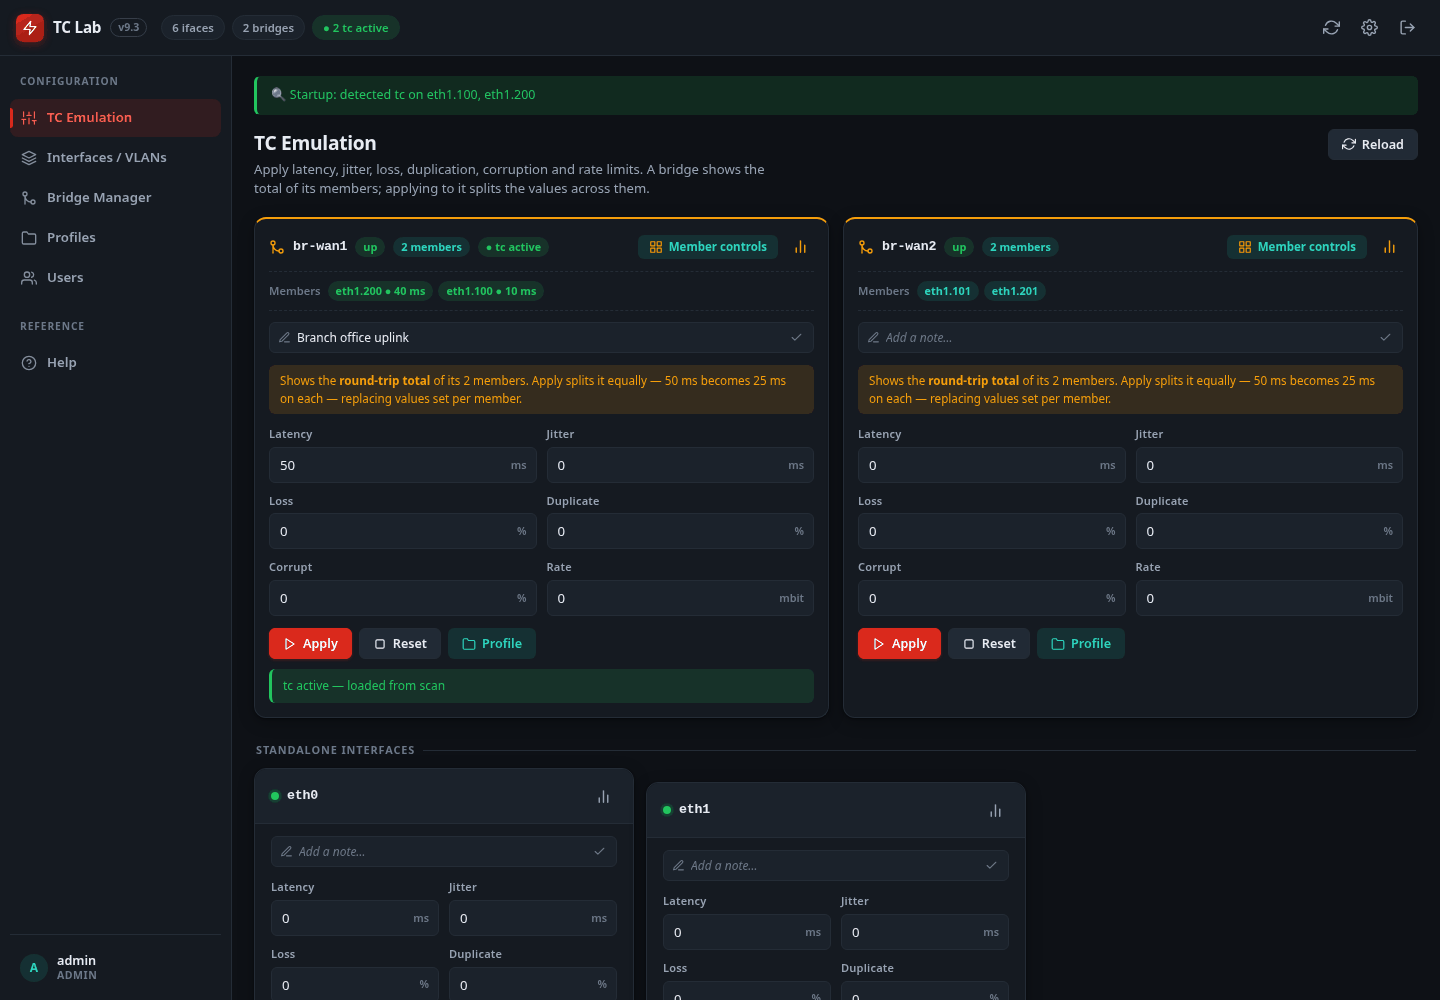
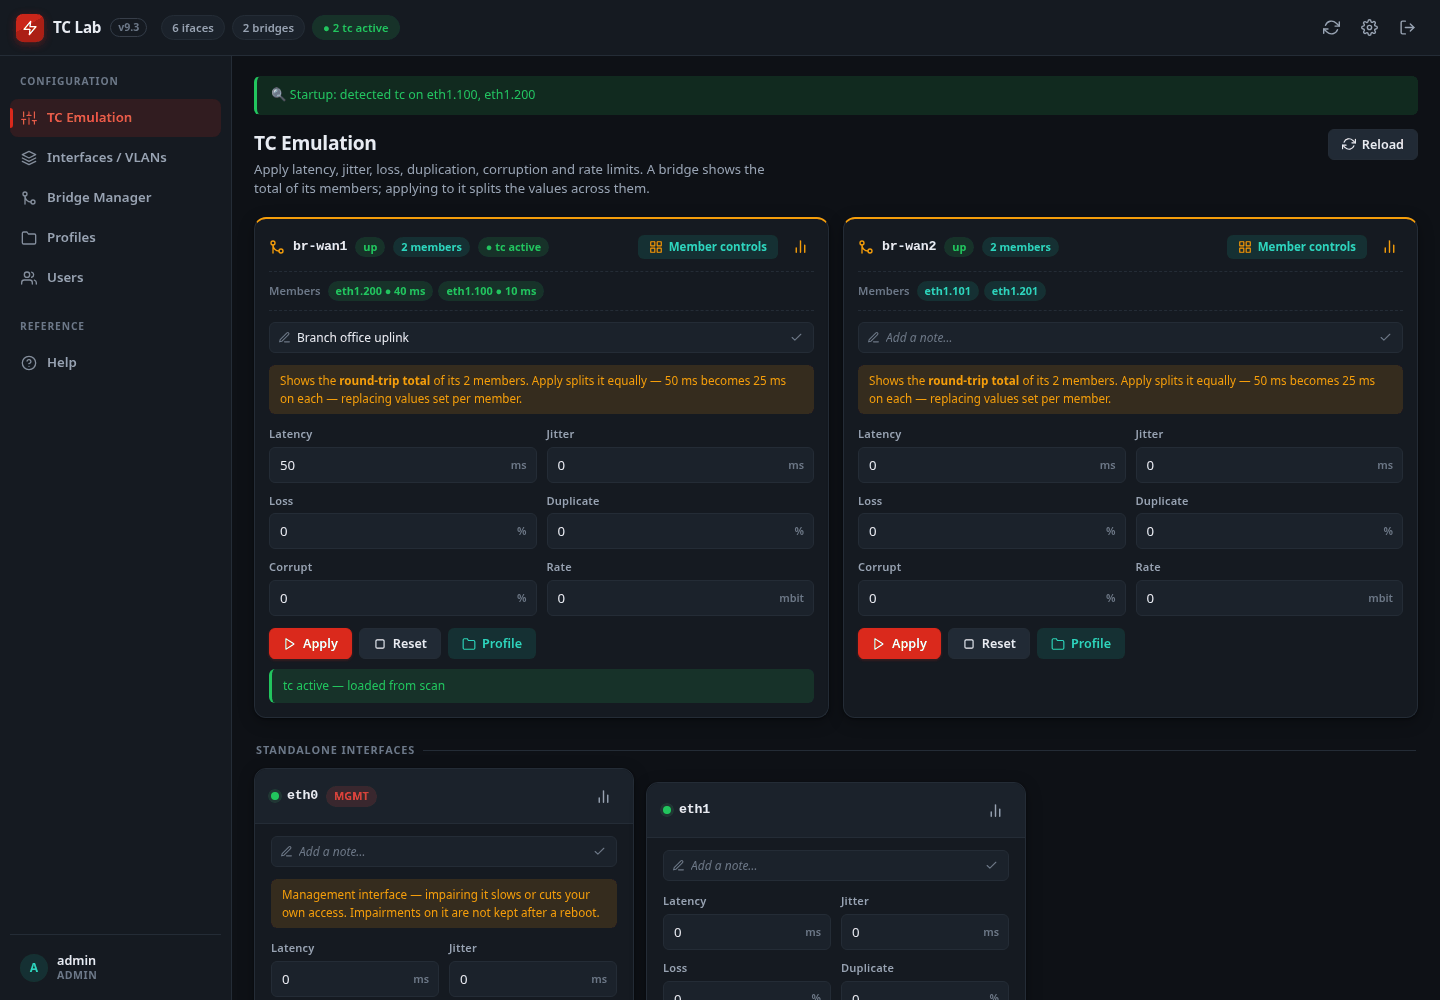
v9.3: document the management-interface protection
User guide (Settings → Management Interface, MGMT tag and warnings on the
Interfaces/VLANs and Bridge Manager pages, roles table), deployment (the
installer step, config keys, a "management interface" section, installer
flags), SECURITY.md, upgrading ("Coming from v9.2": the installer asks),
release notes, changelog, README. Screenshots re-taken (Settings,
Interfaces/VLANs, Bridge Manager and TC cards show it). No PNG metadata.

Changed region(s): [[0.1875, 0.868, 0.4375, 0.961], [0.2188, 0.775, 0.2812, 0.806]]

diff --git a/tools/capture-screenshots.py b/tools/capture-screenshots.py
@@ -34,7 +34,7 @@ SHOTS = [
     ("users",    "05-user-management.png", (1440, 820), "dark",  None),
     ("tc",       "06-light-theme.png", (1440, 1000), "light", None),
     ("profiles", "07-profiles.png",   (1440, 760), "dark",  None),
-    ("tc",       "08-settings.png",   (1440, 1240), "dark", "openSettings()"),
+    ("tc",       "08-settings.png",   (1440, 1480), "dark", "openSettings()"),
     ("tc",       "09-member-controls.png", (1440, 900), "dark", "openBrDrawer('br-wan1')"),
     ("tc",       "10-interface-stats.png", (1440, 900), "dark", "showStats('eth0')"),
     ("bridges",  "11-user-role.png",  (1440, 760), "dark",  None, "user"),

diff --git a/docs/user-guide.md b/docs/user-guide.md
@@ -174,6 +174,10 @@ example `eth1.100`.
 You can also bring a VLAN up or down, delete it, and view its statistics. Deleting a
 VLAN that is a bridge member removes it from the bridge.
 
+The **management interface** carries a red **MGMT** tag. While it is protected (see
+[Settings](#9-settings)) it is left out of the parent list, and the page says so; while
+it is not, a VLAN on it asks you to confirm first — and is not kept after a reboot.
+
 **Names** — for VLANs, bridges and profiles alike — may use letters, digits, `.`, `_`
 and `-`, must not start with `-` or `.`, and must be plain ASCII. Linux limits
 interface and bridge names to **15 characters**.
@@ -190,6 +194,10 @@ through TC Lab.
 **Create a bridge** *(admin)*: give it a name, pick its two members from the
 interfaces that are not already in a bridge, and create it. STP (Spanning Tree) is off
 by default, which is what a simple two-port lab path wants.
+
+The management interface and its VLANs never go into a bridge while it is protected.
+Unprotected, TC Lab warns first: adding it to a bridge removes its IP address, which
+cuts off your access. Such a bridge is not kept after a reboot.
 
 A bridge has **at most two members** — one for each side of the lab path. TC Lab
 refuses a third.
@@ -293,6 +301,14 @@ Open it with ⚙ in the top bar.
   address; you stay signed in. A port something else is using is refused. If a
   firewall only allows the old port you will lose access: on the host,
   `sudo tc-lab set-port <old port>` and `sudo systemctl restart tc_lab` put it back.
+- **Management Interface** *(admins only)* — the interface you reach TC Lab (and SSH)
+  through, and whether it is **protected**. Protected, TC Lab refuses a VLAN on it,
+  adding it or its VLANs to a bridge, and bringing it down — any of those can cut off
+  your access (adding an interface to a bridge removes its IP address). Unprotected,
+  they are allowed after a warning, at your own risk. Either way, **nothing involving
+  it is kept after a reboot**: the interface always comes back in its normal state.
+  The installer asks about this once; with nothing chosen yet, Settings suggests the
+  interface your browser is using.
 - **Appearance** — dark or light. The choice is remembered by your browser, for each
   address — so after a port change you may need to pick it again.
 
@@ -330,7 +346,7 @@ project on GitHub, its releases, and how to report a security issue.
 | Create and delete VLANs and bridges; add and remove members | ✓ | |
 | Bring interfaces, VLANs and bridges up or down | ✓ | |
 | Import a lab config | ✓ | |
-| Change the idle timeout and the service port | ✓ | |
+| Change the idle timeout, the service port and the management interface | ✓ | |
 | Manage accounts | ✓ | |
 
 A `user` sees the same pages without the controls they cannot use — here, the Bridge

diff --git a/docs/deployment.md b/docs/deployment.md
@@ -72,6 +72,7 @@ What `setup.sh` does, step by step:
 | Step | Effect |
 |---|---|
 | checks `--port`, if given | a number from 1024 to 65535 that nothing is listening on — checked before anything changes |
+| asks about the management interface | on a new install, or the first upgrade without the setting: detects it (the interface your SSH session uses) and asks whether to protect it — default yes |
 | asks about existing accounts | only on an upgrade; keeps them by default |
 | `apt-get update && apt-get install …` | installs the system packages listed above |
 | snapshot | on an upgrade: code and state to `/var/backups/tc-lab` |
@@ -171,6 +172,8 @@ valid JSON.
 | `idle_timeout_minutes` | `30` | auto sign-out after inactivity; `0` disables |
 | `bind_address` | `0.0.0.0` | **set this to your management IP** to stop the UI listening on the lab NICs |
 | `port` | `5000` | TCP port for the web UI, `1024`–`65535` |
+| `management_interface` | set by the installer | the interface this host is managed through — see below |
+| `protect_management` | `true` | refuse using it for VLANs, bridges or bringing it down |
 
 After editing the file by hand, restart:
 
@@ -195,6 +198,22 @@ root. If `config.json` asks for one — possible under v9.2, which did — TC La
 
 Your browser remembers the dark/light theme per address, so it may need setting
 again after a port change.
+
+### The management interface
+
+The interface you reach the dashboard (and SSH) through. Using it in the lab is risky:
+adding it to a bridge removes its IP address, and bringing it down or impairing it
+cuts off access.
+
+- **Protected** (the default): TC Lab refuses a VLAN on it, adding it or its VLANs to a
+  bridge, bringing it down, and importing a config that does any of these.
+- **Not protected:** allowed after a warning, at your own risk.
+- **Either way, nothing involving it is kept:** such VLANs and bridges are left out of
+  the saved topology — a bridge with it as a member is not rebuilt at all — and
+  impairments on it are not re-applied. After a reboot it is always back to normal.
+
+The installer detects it and asks once; change it any time in Settings → Management
+Interface, or with `setup.sh --mgmt-iface NAME --protect-mgmt` (or `--allow-mgmt`).
 
 ### Environment variables
 
@@ -242,6 +261,8 @@ sudo bash setup.sh --help
 | Flag | Effect |
 |---|---|
 | `--port N` | set the dashboard port (1024–65535) |
+| `--protect-mgmt` / `--allow-mgmt` | protect the management interface, or not, without asking |
+| `--mgmt-iface NAME` | name the management interface instead of detecting it |
 | `--keep-users` | never prompt; keep existing accounts |
 | `--reset-users` | never prompt; delete accounts (a backup is written first) |
 | `--no-backup` | skip the pre-upgrade snapshot (rollback is then impossible) |

diff --git a/RELEASE_NOTES.md b/RELEASE_NOTES.md
@@ -16,6 +16,8 @@ For the itemised list see [CHANGELOG.md](CHANGELOG.md); for the upgrade itself,
 - **Change the port** from Settings, the installer, or the `tc-lab` command.
 - **Bridges show their total.** Set 50 ms on a bridge and each member gets 25 ms;
   set the members to 10 ms and 40 ms and the bridge shows 50 ms.
+- **The management interface is protected** — TC Lab will not wipe its address by
+  bridging it, and nothing involving it survives a reboot.
 - **Help and About** in the sidebar — this documentation, for the version you are
   running, readable without internet access.
 
@@ -31,7 +33,8 @@ For the itemised list see [CHANGELOG.md](CHANGELOG.md); for the upgrade itself,
    falls back to 5000 and tells you.
 4. **Creating a bridge no longer switches on IP forwarding** for the whole host. If
    you also route traffic through this host, set `net.ipv4.ip_forward` yourself.
-5. **Hard-refresh your browser** (Ctrl-Shift-R) after upgrading, as always.
+5. **The installer asks about the management interface** — press Enter to protect it.
+6. **Hard-refresh your browser** (Ctrl-Shift-R) after upgrading, as always.
 
 ### Upgrading
 
@@ -77,6 +80,16 @@ on the bridge still splits the value equally across the members. Each member's t
 shows its latency.
 
 A bridge has **at most two members** — one per side of the lab path.
+
+#### The management interface
+
+Adding an interface to a bridge removes its IP address, so bridging the one you manage
+the host through cuts you off — and TC Lab used to rebuild that bridge after every
+reboot. Now the management interface is marked **MGMT** and can be **protected**: VLANs
+on it, bridging it and bringing it down are refused. The installer asks (default: yes);
+change it in Settings → Management Interface. Unprotected, it can be used after a
+warning, at your own risk. Either way, nothing involving it — VLANs, bridges,
+impairments — is kept after a reboot.
 
 #### Help and About
 

diff --git a/SECURITY.md b/SECURITY.md
@@ -28,6 +28,7 @@ for internet-facing deployment** and by design manipulates the host's live netwo
 | Headers | None | `X-Frame-Options`, `nosniff`, `Referrer-Policy`, HSTS, CSP |
 | Error handling | 500 returned the exception string; import echoed exception text *(fixed in v9.2.1)* | Generic messages; detail in the log only |
 | Deployment | Unconfined systemd root (all 40 capabilities); install owned by the cloning user | Its own unprivileged user, `tc-lab`, holding only `CAP_NET_ADMIN` *(v9.3)*; the whole filesystem read-only to it except `/var/lib/tc_lab` and a private, throwaway `/tmp` *(v9.3)*; code owned by root; sandboxed unit |
+| Management interface *(v9.3)* | Nothing stopped a VLAN or bridge using it — a bridge wipes its IP address, cutting off access — and such config came back after every reboot | Protected by default (the installer asks): such use is refused. Unprotected, allowed after a warning. Never kept after a reboot either way |
 | User management | Hand-edit `users.json` | Admin-only dashboard section; `tc-lab reset-admin-password` for recovery; the state directory, accounts included, is readable only by the service |
 
 ## Remaining limitations
@@ -47,6 +48,7 @@ for internet-facing deployment** and by design manipulates the host's live netwo
   sandboxed systemd unit.
 - Set `bind_address` in `/var/lib/tc_lab/config.json` to your management IP; firewall the
   dashboard port (5000 unless you changed it) to admin workstations only.
+- Keep the management interface **protected** (Settings → Management Interface).
 - Change the default `admin / tclab123` password on first login.
 - Give day-to-day operators the **`user`** role; keep **`admin`** for topology and
   account changes. Create accounts from the dashboard's Users section.

diff --git a/CHANGELOG.md b/CHANGELOG.md
@@ -60,6 +60,16 @@ installer does it. Upgrade notes: [docs/upgrading.md](docs/upgrading.md).
 - The reference topology diagram is now in the repository (`docs/img/00-topology.png`),
   so Help can show it offline. Screenshots of Help and About.
 
+- **Management interface protection.** config.json `management_interface` +
+  `protect_management` (default on; `mgmt_guard.py`). Protected: a VLAN on it, it or
+  its VLANs as a bridge member, bringing it down, and importing such a bundle are
+  refused. Always: never persisted — `save_net_config` and import leave out its VLANs
+  and, whole, any bridge with such a member; `state.json` leaves out impairments on it;
+  the boot restore and tc re-apply skip it. Settings → Management Interface (suggests
+  the interface the admin's browser uses, `ip route get`); MGMT tag, banners, pickers
+  and confirm warnings in the page; setup.sh detects it and asks once
+  (`--mgmt-iface`, `--protect-mgmt`, `--allow-mgmt`).
+
 ### Changed
 - **State lives in `/var/lib/tc_lab`** (owned by `tc-lab`, mode 700); the code in
   `/opt/tc_lab` is owned by root and read-only to the service.

diff --git a/docs/upgrading.md b/docs/upgrading.md
@@ -38,6 +38,10 @@ Upgrade the same way ([step 2](#2-upgrade)). What is different afterwards:
   the next reboot.
 - **Your edits to a shipped profile survive upgrades** (they used to be
   overwritten). A shipped profile you deleted still comes back.
+- **The installer asks about the management interface** — the one you reach the
+  host through. Protect it (the default) and TC Lab will not use it for VLANs or
+  bridges, or bring it down. Either way, nothing involving it is kept after a reboot.
+  See [The management interface](deployment.md#the-management-interface).
 - **Ports below 1024** (such as 443) cannot be used any more — the service is not
   root. If `config.json` asks for one, TC Lab uses 5000 and the installer says so.
 

diff --git a/README.md b/README.md
@@ -22,6 +22,8 @@ interfaces. Built for Fortinet SD-WAN, SASE, and general network lab testing.
 - Light / Dark theme
 - Configurable idle session timeout and dashboard port
 - **Help built in** — this documentation inside the dashboard, readable offline
+- **Management-interface protection** — keeps the interface you manage the host through
+  out of VLANs and bridges, and never lets such a setup survive a reboot
 - Role-based access — **admin** manages interfaces / bridges / VLANs and user accounts,
   **user** changes impairments
 - **User management in the dashboard** (admin-only) + `sudo tc-lab reset-admin-password` recovery
